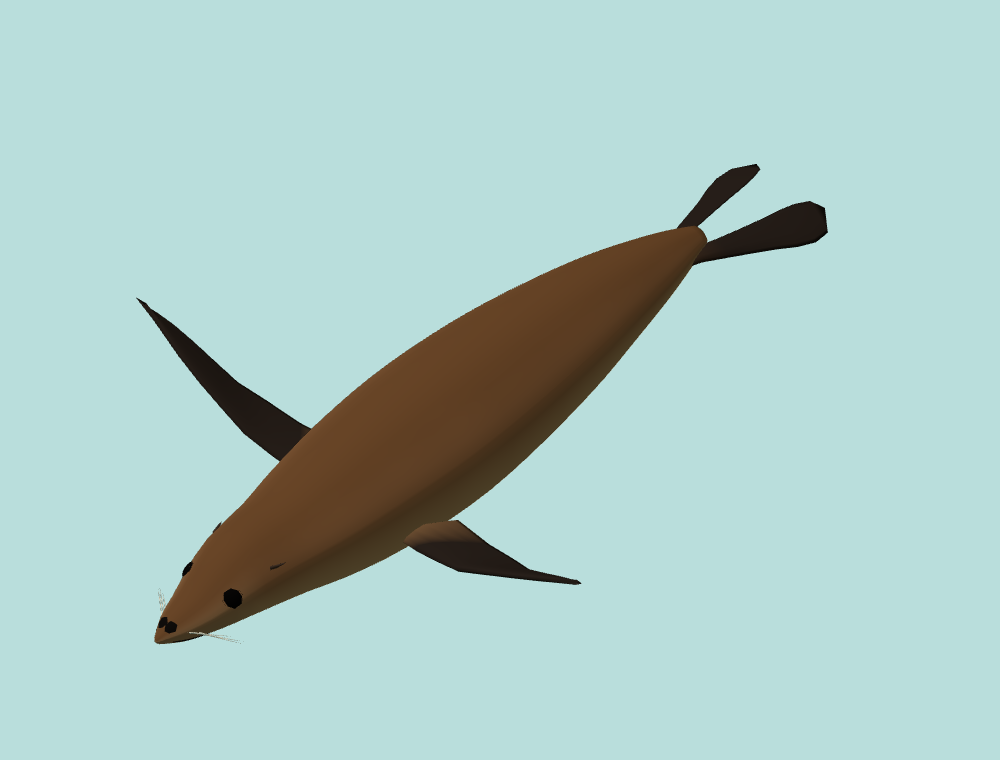
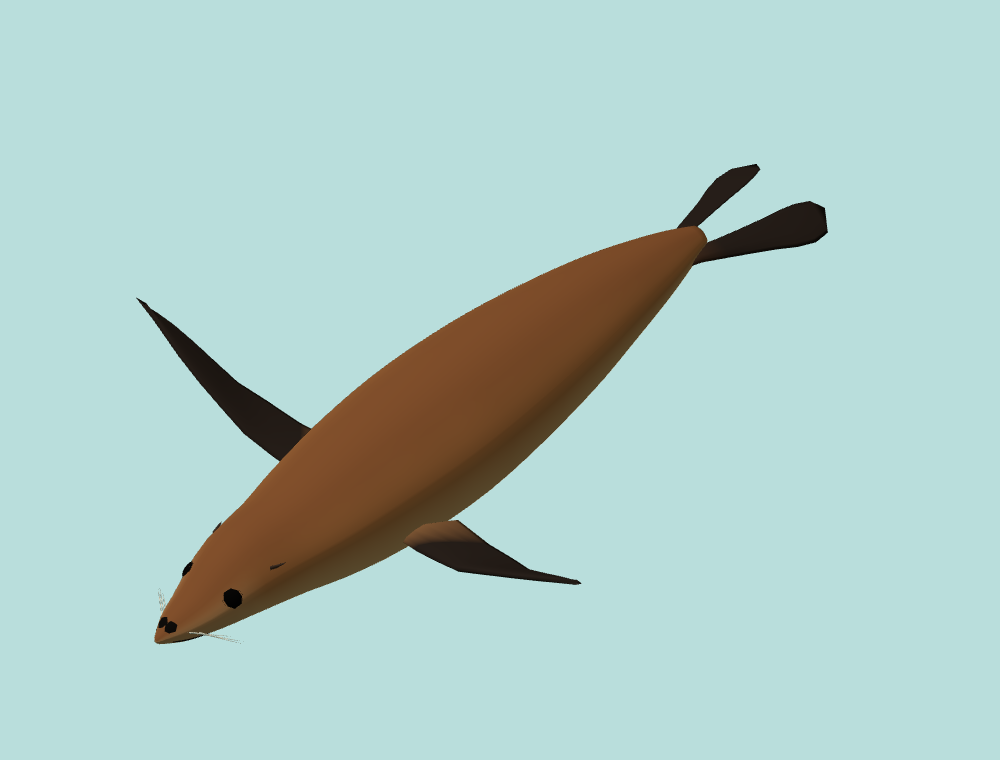
Marine six: a warmer sea lion, and the island view in the docs
Under the island's water tint the sea lion's browns read gray, too close to
the dolphin seen from above: warmer, lighter tawny browns, swimming a little
higher (depth .15) where the tint is lighter. Adds island-batch-v4.png, the
six around a level 3 island as the app's camera sees them.

Claude-Session: https://claude.ai/code/session_01N27qRU2TToE7qqg2TAdULW

Changed region(s): [[0.155, 0.3632, 0.558, 0.8171]]

diff --git a/src/lib/marine-motion.ts b/src/lib/marine-motion.ts
@@ -169,7 +169,7 @@ export const MOVEMENT: Record<MarineModel, Movement> = {
   'california-sea-lion': {
     cruise: .46, swing: .2, swingPeriod: 10, surge: .25, turnRate: .75, turnEase: 1, bank: .9, bankMax: .45, bankEase: 2.2, lazyRoll: 0, tilt: 0,
     halfLength: .7, halfWidth: .3, personalSpace: .2, avoidance: 1, islandClearance: .8, roam: [0, .8], roamPeriod: 26, patrol: 0,
-    depth: .12, bob: .09, bobPeriod: 9, reverseEvery: 50, weave: .3, weavePeriod: 7,
+    depth: .15, bob: .09, bobPeriod: 9, reverseEvery: 50, weave: .3, weavePeriod: 7,
     breathe: { every: 30, rise: 2.6, hold: 1.4, clearance: .18 }, pitch: 1, barrel: { every: 16, time: 1.5 },
   },
   // Flies with steady, deep wingbeats in mid-water, banking gracefully through wide turns; usually a

diff --git a/scripts/art/species/california-sea-lion.ts b/scripts/art/species/california-sea-lion.ts
@@ -11,7 +11,7 @@ import { SWIM_RIGS, type PinnipedRig } from '../../../src/lib/marine-rigs';
 import { blendSkins, curve, fin, hex, mix, noise, smoothstep, type RGB } from './kit';
 import { sharkContext, type SharkDesign } from './shark';
 
-const BACK = hex('#704a2b'), UPPER = hex('#8c5f3c'), FLANK = hex('#a97c51'), BELLY = hex('#c49b6b'), MUZZLE = hex('#9a7550');
+const BACK = hex('#8b5530'), UPPER = hex('#a86b3c'), FLANK = hex('#c48a55'), BELLY = hex('#dcb07a'), MUZZLE = hex('#b98a5c');
 const FLIPPER = hex('#2b221d'), SOLE = hex('#3a2f28'), NOSE = hex('#120f0d'), EYE = hex('#0a0807'), WHISKER = hex('#efe7d3'), EAR = hex('#45342a');
 const MOUTH = hex('#2a1f18');
 

diff --git a/docs/marine-species-art.md b/docs/marine-species-art.md
@@ -271,7 +271,10 @@ column under a crown of seventy round, finger-like tentacles, sand-colored with 
 2,000 triangles, 1,160 in lite), and sways the tentacles on the CPU.
 
 Previews: `docs/art-previews/great-barracuda.png`, `sailfish.png`, `california-sea-lion.png`,
-`spotted-eagle-ray.png`, `golden-jellyfish.png` and `clownfish.png` (the same studio framing).
+`spotted-eagle-ray.png`, `golden-jellyfish.png` and `clownfish.png` (the same studio framing), and
+`island-batch-v4.png`: the six around a level 3 island as the app's camera sees them, eight
+seconds apart (left: the eagle-ray squadron, the barracuda, the sailfish cruising, the jellyfish
+swarm and the clownfish's anemone; right: the sailfish rolled into its display, the sea lions).
 
 The island's tuna school is not a glTF asset: each tuna is a low-poly mesh built at runtime
 (`src/components/home/three/tuna-geometry.ts`, 167 triangles, or 83 in lite quality). It has a

diff --git a/docs/marine-navigation.md b/docs/marine-navigation.md
@@ -413,7 +413,7 @@ The six newest (batch v4), each told apart by how it moves as much as by its sha
 | `bank` / `bankMax` | 0.4 / 0.14 | 0.55 / 0.22 | 0.9 / 0.45 | 1.4 / 0.32 | 0 / 0 |
 | `halfLength` × `halfWidth` | 0.8 × 0.13 | 1.1 × 0.18 | 0.7 × 0.3 | 0.5 × 0.7 | 0.25 × 0.25 |
 | `islandClearance` / `roam` | 0.8 / 0.1–0.75 | 1.05 / 0.35–1.1 | 0.8 / 0–0.8 | 1.0 / 0.15–0.9 | 0.7 / 0–0.75 |
-| `depth` / `bob` | −0.04 / 0.025 | +0.12 / 0.03 | +0.12 / 0.09 | −0.02 / 0.07 | +0.2 / 0.05 |
+| `depth` / `bob` | −0.04 / 0.025 | +0.12 / 0.03 | +0.15 / 0.09 | −0.02 / 0.07 | +0.2 / 0.05 |
 | `weave` (rad, over s) | – | – | 0.3, 7 | – | 0.45, 23 |
 | Group | alone | alone | 2–3 | 3–4 | 4–6 |
 | Special | `pause` (lurk, dash) | `pause` (sail display, dash) | `breathe`, `barrel` | – | – |
